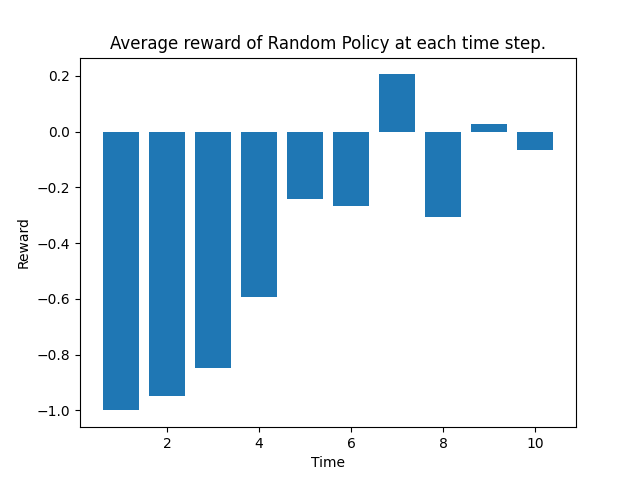
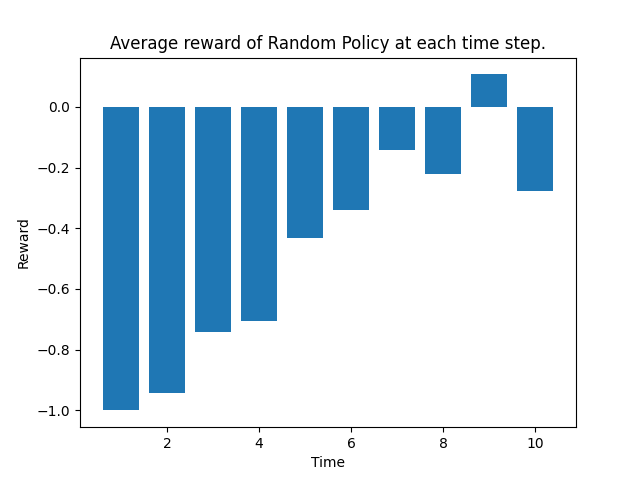
Implemented seeding in MC and TD training, now working properly.

diff --git a/src/temporal_difference_policy.py b/src/temporal_difference_policy.py
@@ -3,17 +3,7 @@ import gymnasium as gym
 from typing import Callable, Optional
 import numpy as np
 from enum import Enum
-from agent import PolicyAgent
-
-
-def epsilon_greedy(q: dict[int, float], seed: int = None, epsilon: float = 0.5) -> int:
-    rng = np.random.default_rng(seed)
-    val = rng.uniform(0, 1)
-    return (
-        max(q.items(), key=lambda kv: kv[1])[0]
-        if val > epsilon
-        else rng.choice(tuple(q.keys()))
-    )
+from action_sampler import ActionSampler
 
 
 class TemporalDifferencePolicy(Policy):
@@ -68,7 +58,7 @@ class TemporalDifferencePolicy(Policy):
         n_episodes: int,
         alpha: float = 0.5,
         gamma: float = 0.9,
-        policy_func: Callable[[dict[int, float]], int] = epsilon_greedy,
+        epsilon: float = 0.3,
         reset: bool = True,
     ) -> Policy:
         """
@@ -79,7 +69,7 @@ class TemporalDifferencePolicy(Policy):
         @param n_episodes: Number of episodes the algorithm should execute before convergence is assumed.
         @param alpha: Learning rate.
         @param gamma: Discount.
-        @param policy_func: Function mapping a dictionary of actions mapping to values to an action.
+        @param epsilon: Epsilon used for epsilon greedy decisions.
         @param reset: Should the state-action value function be reset at the start of the algorithm.
         @return: A policy constructed based on the value function, computed from it using policy_func.
         """
@@ -91,11 +81,6 @@ class TemporalDifferencePolicy(Policy):
         if reset:
             self.__reset()
 
-        options = {
-            "cat_position": env.unwrapped.cat_position,
-            "target_position": env.unwrapped.target_position,
-        }
-
         current_render_mode = env.render_mode
         if env.render_mode:
             env.unwrapped.render_mode = "None"
@@ -104,7 +89,7 @@ class TemporalDifferencePolicy(Policy):
             obs, _ = env.reset(seed=int(self._rng.integers(0, 1000000)))
             obs = self._obs_to_tuple(obs)
 
-            action = policy_func(self._action_to_value(self.__q, obs))
+            action = self._epsilon_greedy_action(self.__q, obs, epsilon).sample()
             terminal, truncated = False, False
 
             # Train over an episode
@@ -112,7 +97,7 @@ class TemporalDifferencePolicy(Policy):
                 new_obs, reward, terminal, truncated, _ = env.step(action)
                 new_obs = self._obs_to_tuple(new_obs)
 
-                new_action = policy_func(self._action_to_value(self.__q, obs))
+                new_action = self._epsilon_greedy_action(self.__q, new_obs, epsilon).sample()
 
                 # Update q
                 self.__q[obs, action] += alpha * (
@@ -134,7 +119,7 @@ class TemporalDifferencePolicy(Policy):
         n_episodes: int,
         alpha: float = 0.5,
         gamma: float = 0.9,
-        policy_func: Callable[[dict[int, float]], int] = epsilon_greedy,
+        epsilon: float = 0.3,
         reset: bool = True,
     ) -> Policy:
         """
@@ -145,7 +130,7 @@ class TemporalDifferencePolicy(Policy):
         @param n_episodes: Number of episodes the algorithm should execute before convergence is assumed.
         @param alpha: Learning rate.
         @param gamma: Discount.
-        @param policy_func: Function mapping a dictionary of actions mapping to values to an action.
+        @param epsilon: Epsilon used for epsilon greedy decisions.
         @param reset: Should the state-action value function be reset at the start of the algorithm.
         @return: A policy constructed based on the value function, computed from it using policy_func.
         """
@@ -157,11 +142,6 @@ class TemporalDifferencePolicy(Policy):
 
         if reset:
             self.__reset()
-
-        options = {
-            "cat_position": env.unwrapped.cat_position,
-            "target_position": env.unwrapped.target_position,
-        }
 
         current_render_mode = env.render_mode
         if env.render_mode:
@@ -175,7 +155,7 @@ class TemporalDifferencePolicy(Policy):
 
             # Learn over an episode
             while not (terminal or truncated):
-                action = policy_func(self._action_to_value(self.__q, obs))
+                action = self._epsilon_greedy_action(self.__q, obs, epsilon).sample()
 
                 new_obs, reward, terminal, truncated, _ = env.step(action)
                 new_obs = self._obs_to_tuple(new_obs)

diff --git a/src/action_sampler.py b/src/action_sampler.py
@@ -12,18 +12,19 @@ class ActionSampler:
     sampled. This ActionSampler can sample actions with any predetermined probabilities.
     """
 
-    def __init__(self, action_probabilities: dict[int, float], generator: Optional[np.random._generator] = None):
+    def __init__(self, action_probabilities: dict[int, float], seed: Optional[int] = None):
         """
         Constructs the CustomProbabilityActionSampler.
 
         @param action_probabilities: A dictionary mapping all actions to their respective probabilities. Probabilities are
                                      normalised automatically.
-        @param generator: Random generator used to sample actions.
+        @param seed: Seed used to sample actions.
         """
         # Normalise probabilities.
         self.__probabilities = dict(map(lambda kv: (kv[0], kv[1] / sum(action_probabilities.values())),
                                         action_probabilities.items()))
-        self.__generator = generator if generator else np.random.default_rng()
+
+        self.__generator = np.random.default_rng(seed)
 
     def sample(self) -> int:
         """
@@ -62,15 +63,15 @@ class ActionSampler:
         return ActionSampler(probabilities)
 
     @staticmethod
-    def uniform_action_sampler(act_space: tuple[int, ...], generator: Optional[np.random._generator] = None) -> 'ActionSampler':
+    def uniform_action_sampler(act_space: tuple[int, ...], seed: Optional[int] = None) -> 'ActionSampler':
         """
         Constructs a uniform action sampler, which samples all action with uniform probabilities.
 
         @param act_space: A tuple of all actions this action sampler can return.
-        @param generator: The numpy random generator used to sample actions.
+        @param seed: Seed used to sample actions.
         """
         probabilities = {action: 1 / len(act_space) for action in act_space}
-        return ActionSampler(probabilities, generator)
+        return ActionSampler(probabilities, seed)
 
     @staticmethod
     def deterministic_action_sampler(action: int) -> 'ActionSampler':
@@ -83,7 +84,7 @@ class ActionSampler:
 
     @staticmethod
     def epsilon_greedy_action_sampler(act_space: tuple[int], optimal_action: int, epsilon: float,
-                                      generator: Optional[np.random._generator] = None) -> 'ActionSampler':
+                                      seed: Optional[int] = None) -> 'ActionSampler':
         """
         Constructs an epsilon soft action sampler, samples a given action at a probability of epsilon,
         while in all other cases taking a random sample from the action space.
@@ -91,11 +92,11 @@ class ActionSampler:
         @param act_space: The action space from which the actions will be sampled.
         @param optimal_action: The optimal action, picked with probability epsilon.
         @param epsilon: The probability the optimal action will be picked.
-        @param generator: Random generator used to sample actions.
+        @param seed: Seed.
         """
         assert 0 <= epsilon <= 1, "Epsilon not in range [0, 1]"
         assert optimal_action in act_space, "Optimal action is not in action space"
         probabilities = {action: epsilon / len(act_space) for action in act_space}
         probabilities[optimal_action] = 1 - epsilon + epsilon / len(act_space)
 
-        return ActionSampler(probabilities, generator)
+        return ActionSampler(probabilities, seed)

diff --git a/src/policy.py b/src/policy.py
@@ -111,10 +111,22 @@ class Policy:
         @return: A random policy dictionary
         """
         # Assign a random action from the action space to each key, as long as the key does not belong to a terminal state.
-        return {key: ActionSampler.uniform_action_sampler(self._all_actions, generator=self._rng) for key in self.get_keys(self._obs_space)}
+        return {key: ActionSampler.uniform_action_sampler(self._all_actions, seed=self._rng.integers(0, 1000000)) for key in self.get_keys(self._obs_space)}
 
-    @staticmethod
-    def _action_to_value(q: dict[tuple[tuple[int, ...], int], float], observation: tuple[int, ...]) -> dict[int, float]:
+    def _epsilon_greedy_action(self, q: dict[tuple[tuple[int, ...], int], float], observation: tuple[int, ...], epsilon: float = 0.5) -> ActionSampler:
+        """
+        Creates an epsilon greedy ActionSampler from the specified state-action values for the specified state.
+
+        @param q: State-action value function.
+        @param observation: State for which ActionSampler should be constructed.
+        @param epsilon: Probability optimal action will be picked.
+        @return: ActionSampler that is epsilon-greedy to optimal action.
+        """
+        action_values = self._action_to_value(q, observation)
+        best_action = max(action_values, key=action_values.get)
+        return ActionSampler.epsilon_greedy_action_sampler(self._all_actions, best_action, epsilon, seed=self._rng.integers(0, 1000000))
+
+    def _action_to_value(self, q: dict[tuple[tuple[int, ...], int], float], observation: tuple[int, ...]) -> dict[int, float]:
         """
         Given a dictionary mapping observation + action to a value, and an observation, gives back a dictionary of
         action mapping to value.
@@ -123,7 +135,7 @@ class Policy:
         @param observation: Observation for which the dict needs to be computed.
         @return: A dictionary mapping all actions in the observation to a value.
         """
-        return {key[1]: value for key, value in q.items() if observation == key[0]}
+        return {action: q[observation, action] for action in self._all_actions}
 
     def _greedy_policy_from_q(self, q: dict[tuple[tuple[int, ...], int], float]) -> 'Policy':
         # Create a tuple of the form (obs, (((obs, act), val), ...)), grouping same observations together

diff --git a/src/data_collection.py b/src/data_collection.py
@@ -1,3 +1,5 @@
+from sympy.abc import epsilon
+
 from agent import PolicyAgent
 from deep_qlearning import DeepQLearningAgent, get_data_and_train, RLData
 import numpy as np
@@ -161,7 +163,7 @@ if __name__ == "__main__":
 
     # Temporal Difference Learning
     sarsa = TemporalDifferencePolicy(board.observation_space, board.action_space, algorithm="SARSA", env=board,
-                                     n_episodes=100, alpha=0.5, gamma=0.9, seed=0)
+                                     n_episodes=100, alpha=0.5, gamma=0.9, epsilon=0.3, seed=0)
 
     plot_rewards_over_time(board, sarsa, n_episodes=1000,
                            plot_save_path="../plots/r_over_time/sarsa_r_over_time.png", options=options,
@@ -170,7 +172,7 @@ if __name__ == "__main__":
     print("Finished plotting SARSA (5/7)")
 
     q_learning = TemporalDifferencePolicy(board.observation_space, board.action_space, algorithm="QLearning", env=board,
-                                          n_episodes=100, alpha=0.5, gamma=0.9, seed=0)
+                                          n_episodes=100, alpha=0.5, gamma=0.9, epsilon=0.3, seed=0)
 
     plot_rewards_over_time(board, q_learning, n_episodes=1000,
                            plot_save_path="../plots/r_over_time/q_learning_r_over_time.png", options=options,

diff --git a/src/monte_carlo_policy.py b/src/monte_carlo_policy.py
@@ -133,11 +133,7 @@ class MonteCarloPolicy(Policy):
 
                 # Update policy using newly acquired knowledge
                 state = step[0][0]
-                action_values = self._action_to_value(self.__all_q, state)
-                best_action = max(action_values, key=action_values.get)
-                self[state] = ActionSampler.epsilon_greedy_action_sampler(
-                    self._all_actions, best_action, epsilon
-                )
+                self[state] = self._epsilon_greedy_action(self.__all_q, state, epsilon)
 
     def __reset(self) -> None:
         """

diff --git a/src/board.py b/src/board.py
@@ -260,10 +260,11 @@ class Board(gym.Env):
 
             # Make sure board doesn't randomise to a terminal state.
             if np.array(self._target_position == self._cat_position).all():
-                return self.reset(seed=int(self.rng.integers(0, 1000000)), options=options)
+                return self.reset(seed=seed+1, options=options)
 
         self[self._cat_position].holds_agent = True
         self[self._target_position].holds_target = True
+
 
         return self._get_obs(), self._get_info()
 
